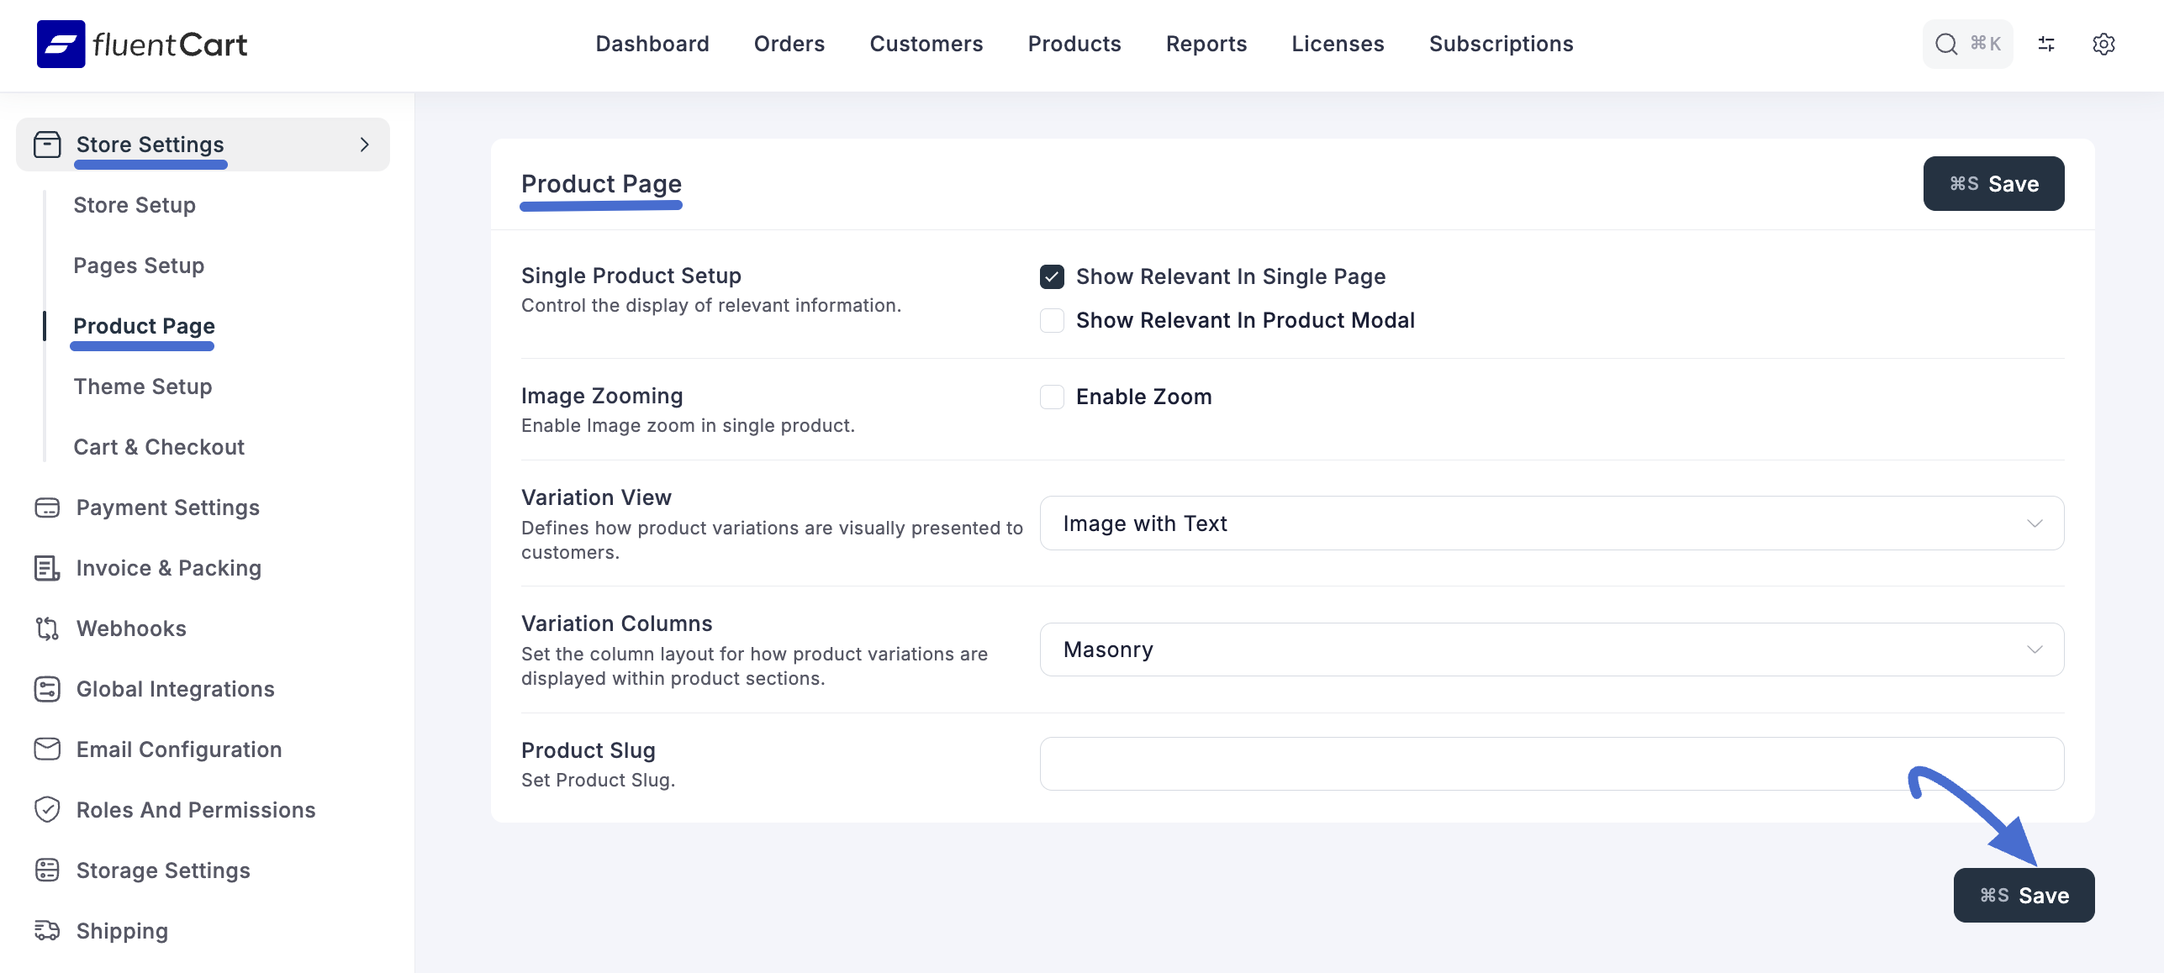
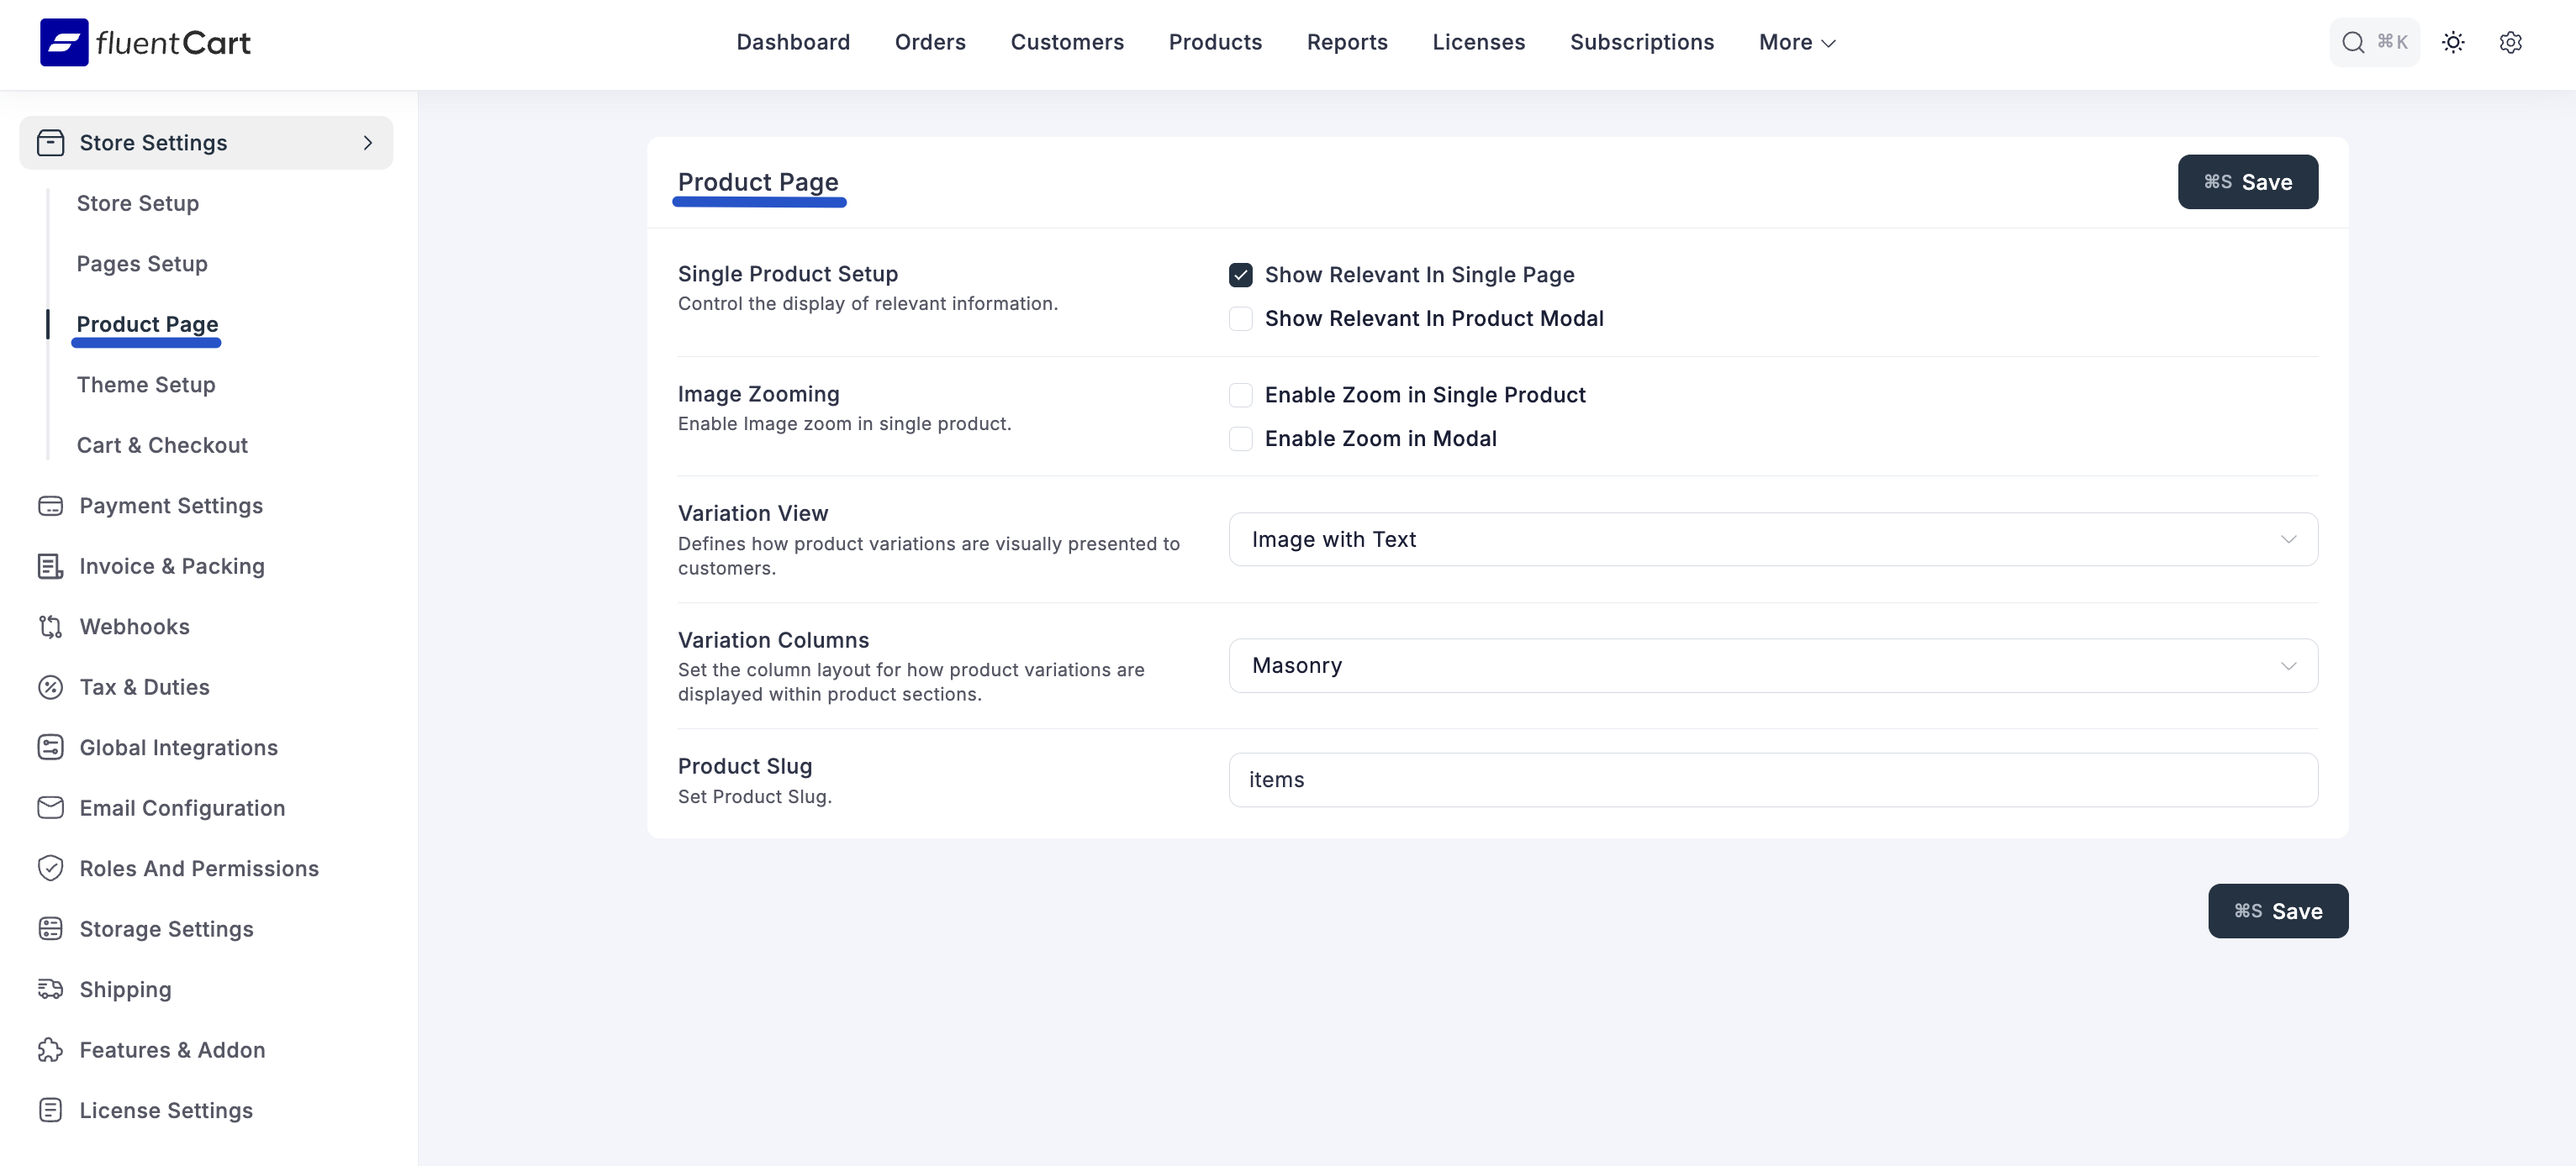
Updated Product page doc

diff --git a/guide/settings-configuration/product-page.md b/guide/settings-configuration/product-page.md
@@ -23,6 +23,8 @@ These settings control how additional information is presented on your individua
 
 * **Enable Zoom:** This feature lets customers get a closer look at your product images. When you check this **Enable Zoom** box, customers can hover their mouse over a product picture to see a magnified view. This is perfect for products with fine details, like clothing or electronics.
 
+* **Enable Zoom In Modal:** If you use a product quick-view or pop-up modal, enable this option to activate the same hover-to-zoom functionality within that modal view.
+
 ### 3. Variation Display
 
 These settings define how your product variations (e.g., different sizes, colors, or license tiers) are presented to customers. The goal is to make the selection process as clear and intuitive as possible.
